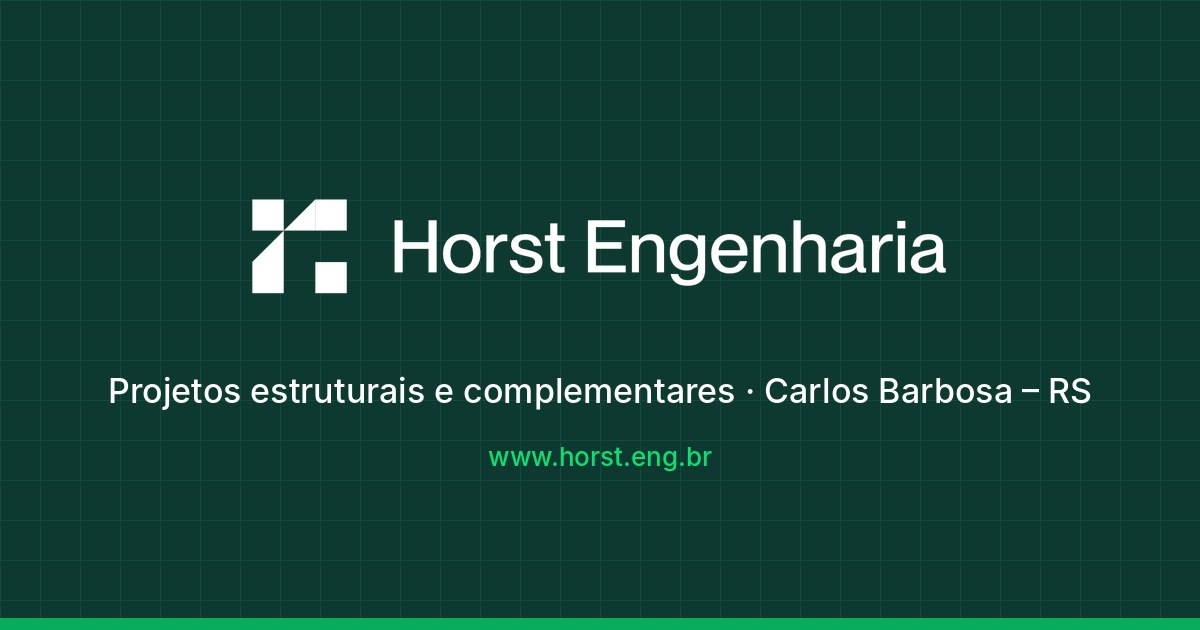
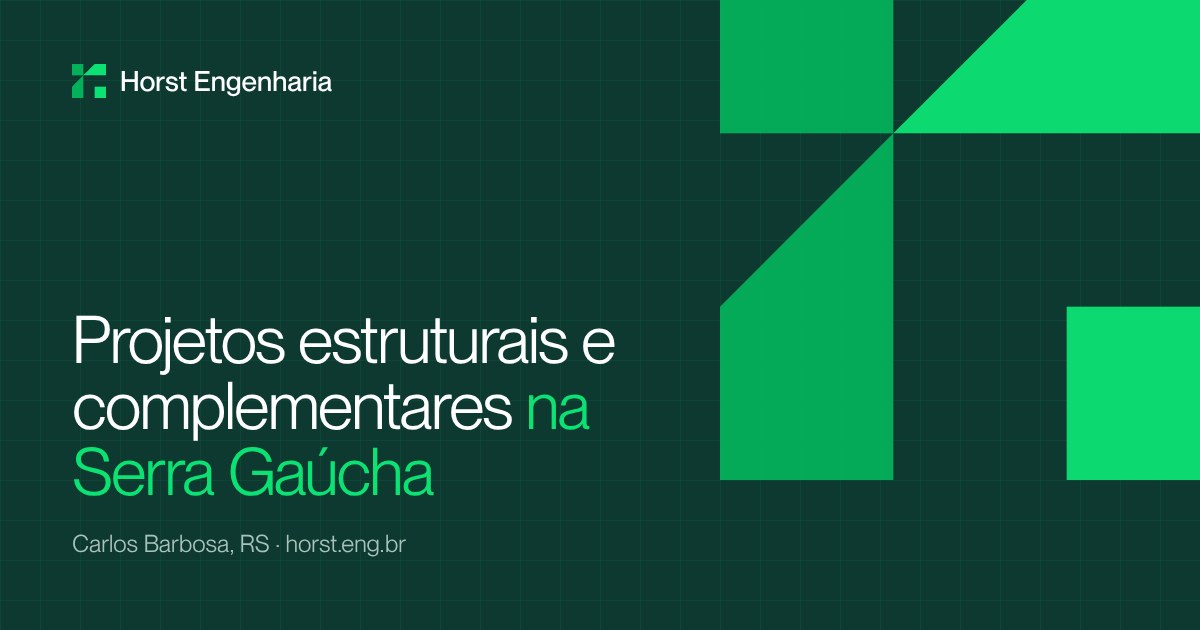
Serviços e números em HTML estático; nova imagem de compartilhamento
- textos de serviços e faixa de números direto no index.html (auditoria de SEO)
- conteudo.js fica só com as obras
- robots.txt deixa docs/identidade-visual/ fora da indexação
- og-image.jpg no visual novo (1200x630)

Claude-Session: https://claude.ai/code/session_01MBBi4y4kCC1wQFGCR4DkjJ

diff --git a/index.html b/index.html
@@ -24,7 +24,7 @@
   <meta property="og:image" content="https://www.horst.eng.br/docs/og-image.jpg">
   <meta property="og:image:width" content="1200">
   <meta property="og:image:height" content="630">
-  <meta property="og:image:alt" content="Logo da Horst Engenharia sobre fundo verde">
+  <meta property="og:image:alt" content="Símbolo da Horst Engenharia e o texto Projetos estruturais e complementares na Serra Gaúcha">
   <meta name="twitter:card" content="summary_large_image">
 
   <script type="application/ld+json">
@@ -168,13 +168,25 @@
 
     <div class="after">
       <div class="stats-band gutter"><div class="wrap">
-        <ul class="stats" role="list" data-numeros></ul>
+        <ul class="stats" role="list">
+          <li class="stat"><strong>2022</strong><span>Ano de fundação, em Carlos Barbosa</span></li>
+          <li class="stat"><strong>4</strong><span>Disciplinas de projeto no mesmo escritório</span></li>
+          <li class="stat"><strong>3D</strong><span>Todo projeto modelado antes da obra</span></li>
+          <li class="stat"><strong>ART</strong><span>Responsabilidade técnica registrada em cada projeto</span></li>
+        </ul>
       </div></div>
 
       <div class="gutter"><div class="wrap">
         <section class="sec" id="servicos">
           <div class="sec-head"><div><span class="eyebrow">Serviços</span><h2>O que projetamos</h2></div><p>Seis serviços, um mesmo modelo. Estrutura e instalações são desenhadas juntas, para chegar compatibilizadas na obra.</p></div>
-          <div class="svc-list" data-servicos></div>
+          <div class="svc-list">
+            <article class="svc"><svg class="ico" viewBox="0 0 44 44" fill="none" stroke="currentColor" stroke-width="1.6" aria-hidden="true"><path d="M8 38V10M22 38V10M36 38V10M4 10h36M4 24h36M4 38h36M8 24l14-14M22 24l14-14"/></svg><h3>Projeto estrutural</h3><p>Dimensionamos a estrutura de concreto armado de casas, sobrados, prédios residenciais e edificações comerciais. O projeto define pilares, vigas, lajes e escadas com o menor consumo de concreto e aço que a segurança permite. Entregamos plantas de forma, detalhamento de armaduras e quantitativos de material, o que ajuda o construtor a orçar a obra com precisão.</p></article>
+            <article class="svc"><svg class="ico" viewBox="0 0 44 44" fill="none" stroke="currentColor" stroke-width="1.6" aria-hidden="true"><path d="M4 18h36M19 6v20M25 6v20M12 26h20v6H12zM16 32v8M28 32v8"/><path d="M4 18l4 4M10 18l4 4M30 18l4 4M36 18l4 4" stroke-dasharray="2 2"/></svg><h3>Projeto de fundação</h3><p>A fundação é escolhida a partir do solo do terreno, não do hábito. Interpretamos o laudo de sondagem do terreno e definimos a solução mais adequada: sapatas, estacas ou radier. No relevo acidentado da Serra Gaúcha isso inclui terrenos em declive, cortes e muros de arrimo. Quando ainda não há sondagem, orientamos quantos furos fazer e onde.</p></article>
+            <article class="svc"><svg class="ico" viewBox="0 0 44 44" fill="none" stroke="currentColor" stroke-width="1.6" aria-hidden="true"><circle cx="22" cy="22" r="16"/><path d="M24 8l-8 16h8l-4 12 10-17h-8l4-11z"/></svg><h3>Projeto elétrico</h3><p>Planejamos a instalação elétrica a partir de como a edificação vai ser usada: chuveiros, ar-condicionado, cozinha, oficina ou máquinas. Com isso dimensionamos circuitos, cabos e proteções e deixamos o quadro com espaço para o que vier depois, como carregador de carro elétrico ou placas solares. O projeto inclui a entrada de energia aprovada na concessionária, iluminação, tomadas e a infraestrutura de internet, rede e câmeras. Como é desenhado sobre o mesmo modelo da estrutura, cada eletroduto já tem passagem prevista em lajes e vigas.</p></article>
+            <article class="svc"><svg class="ico" viewBox="0 0 44 44" fill="none" stroke="currentColor" stroke-width="1.6" aria-hidden="true"><path d="M4 14h20a6 6 0 0 1 6 6v6M4 20h18a2 2 0 0 1 2 2v4M27 30c0 3 1.5 6 3 6s3-3 3-6-3-6-3-6-3 3-3 6z"/></svg><h3>Projeto hidrossanitário</h3><p>Projetamos água fria e quente, esgoto e água da chuva como um sistema só. Reservatórios e tubulações são dimensionados para garantir pressão no último chuveiro e água quente sem espera, seja com aquecedor a gás, elétrico ou solar. No esgoto, ventilação e caixas de inspeção bem posicionadas evitam mau cheiro e facilitam a manutenção. Quando o cliente quiser, incluímos reaproveitamento da água da chuva para rega e descargas. Furos e rebaixos em vigas e lajes ficam definidos no projeto, não improvisados no canteiro.</p></article>
+            <article class="svc"><svg class="ico" viewBox="0 0 44 44" fill="none" stroke="currentColor" stroke-width="1.6" aria-hidden="true"><path d="M10 4h18l8 8v28H10zM28 4v8h8M15 20h16M15 26h16M15 32h9M27 34l3 3 6-7"/></svg><h3>Regularização de obras</h3><p>Regularizamos imóveis construídos sem projeto aprovado ou com ampliações não averbadas. Fazemos o levantamento do que existe, os desenhos técnicos, a ART e o encaminhamento na prefeitura de Carlos Barbosa ou da cidade do imóvel até o habite-se e a averbação no registro de imóveis. Um imóvel regular pode ser financiado, vendido e segurado sem pendências.</p></article>
+            <article class="svc"><svg class="ico" viewBox="0 0 44 44" fill="none" stroke="currentColor" stroke-width="1.6" aria-hidden="true"><path d="M8 26a14 14 0 0 1 28 0M5 26h34v4H5zM20 12h4v4M14 36h16"/></svg><h3>Assessoria técnica</h3><p>Atendemos quem precisa de uma avaliação de engenharia fora de um projeto completo: vistorias, análise de viabilidade de reforma ou ampliação e acompanhamento de obra. Também revisamos projetos de terceiros a pedido de construtoras e compradores.</p></article>
+          </div>
         </section>
       </div></div>
 

diff --git a/assets/js/conteudo.js b/assets/js/conteudo.js
@@ -1,9 +1,6 @@
-/* Conteúdo editável do site. Tudo o que aparece em Números, Serviços e Obras sai daqui.
+/* Obras do portfólio. Serviços, números e demais textos ficam direto no index.html (melhor para o Google).
 
-   NÚMEROS: só fatos confirmados. Quando houver contagens reais (área projetada, projetos entregues,
-   cidades atendidas), troque ou acrescente itens no mesmo formato:  { valor: '150', sufixo: '+', rotulo: 'Projetos entregues' }
-
-   OBRAS: começa vazia de propósito, para o site nunca mostrar obra inventada. Enquanto estiver vazia,
+   OBRAS começa vazia de propósito, para o site nunca mostrar obra inventada. Enquanto estiver vazia,
    a seção mostra os TIPOS de obra que o escritório projeta. Para publicar uma obra real, adicione um bloco:
      { nome: 'Residência ...', cidade: 'Carlos Barbosa, RS', area: '320 m²', ano: 2025,
        categoria: 'Residencial', desenho: 'casa', pavimentos: 2,
@@ -12,46 +9,6 @@
    desenho pode ser "casa", "predio", "comercial" ou "pavilhao". */
 
 window.HORST = {
-  NUMEROS: [
-    { valor: '2022', rotulo: 'Ano de fundação, em Carlos Barbosa' },
-    { valor: '4', rotulo: 'Disciplinas de projeto no mesmo escritório' },
-    { valor: '3D', rotulo: 'Todo projeto modelado antes da obra' },
-    { valor: 'ART', rotulo: 'Responsabilidade técnica registrada em cada projeto' }
-  ],
-
-  SERVICOS: [
-    {
-      icone: 'est',
-      nome: 'Projeto estrutural',
-      texto: 'Dimensionamos a estrutura de concreto armado de casas, sobrados, prédios residenciais e edificações comerciais. O projeto define pilares, vigas, lajes e escadas com o menor consumo de concreto e aço que a segurança permite. Entregamos plantas de forma, detalhamento de armaduras e quantitativos de material, o que ajuda o construtor a orçar a obra com precisão.'
-    },
-    {
-      icone: 'fun',
-      nome: 'Projeto de fundação',
-      texto: 'A fundação é escolhida a partir do solo do terreno, não do hábito. Interpretamos o laudo de sondagem do terreno e definimos a solução mais adequada: sapatas, estacas ou radier. No relevo acidentado da Serra Gaúcha isso inclui terrenos em declive, cortes e muros de arrimo. Quando ainda não há sondagem, orientamos quantos furos fazer e onde.'
-    },
-    {
-      icone: 'ele',
-      nome: 'Projeto elétrico',
-      texto: 'Planejamos a instalação elétrica a partir de como a edificação vai ser usada: chuveiros, ar-condicionado, cozinha, oficina ou máquinas. Com isso dimensionamos circuitos, cabos e proteções e deixamos o quadro com espaço para o que vier depois, como carregador de carro elétrico ou placas solares. O projeto inclui a entrada de energia aprovada na concessionária, iluminação, tomadas e a infraestrutura de internet, rede e câmeras. Como é desenhado sobre o mesmo modelo da estrutura, cada eletroduto já tem passagem prevista em lajes e vigas.'
-    },
-    {
-      icone: 'hid',
-      nome: 'Projeto hidrossanitário',
-      texto: 'Projetamos água fria e quente, esgoto e água da chuva como um sistema só. Reservatórios e tubulações são dimensionados para garantir pressão no último chuveiro e água quente sem espera, seja com aquecedor a gás, elétrico ou solar. No esgoto, ventilação e caixas de inspeção bem posicionadas evitam mau cheiro e facilitam a manutenção. Quando o cliente quiser, incluímos reaproveitamento da água da chuva para rega e descargas. Furos e rebaixos em vigas e lajes ficam definidos no projeto, não improvisados no canteiro.'
-    },
-    {
-      icone: 'reg',
-      nome: 'Regularização de obras',
-      texto: 'Regularizamos imóveis construídos sem projeto aprovado ou com ampliações não averbadas. Fazemos o levantamento do que existe, os desenhos técnicos, a ART e o encaminhamento na prefeitura de Carlos Barbosa ou da cidade do imóvel até o habite-se e a averbação no registro de imóveis. Um imóvel regular pode ser financiado, vendido e segurado sem pendências.'
-    },
-    {
-      icone: 'ass',
-      nome: 'Assessoria técnica',
-      texto: 'Atendemos quem precisa de uma avaliação de engenharia fora de um projeto completo: vistorias, análise de viabilidade de reforma ou ampliação e acompanhamento de obra. Também revisamos projetos de terceiros a pedido de construtoras e compradores.'
-    }
-  ],
-
   OBRAS: [],
 
   // Mostrados enquanto OBRAS estiver vazia.

diff --git a/assets/js/site.js b/assets/js/site.js
@@ -1,4 +1,4 @@
-/* Interações da página: menu, etapas da história, títulos, obras na horizontal e visualizador do modelo .glb. */
+/* Interações da página (serviços e números ficam direto no index.html, por SEO): menu, etapas da história, títulos, obras na horizontal e visualizador do modelo .glb. */
 
 (function () {
   'use strict';
@@ -9,25 +9,7 @@
   const clamp01 = v => Math.max(0, Math.min(1, v));
   const seg = (p, a, b) => clamp01((p - a) / (b - a));
   const fmt = (v, d) => v.toFixed(d).replace('.', ',');
-  const { NUMEROS = [], SERVICOS, OBRAS = [], TIPOS = [] } = window.HORST;
-
-  // ---------- Números ----------
-  const stats = document.querySelector('[data-numeros]');
-  if (NUMEROS.length) stats.innerHTML = NUMEROS.map(n =>
-    `<li class="stat"><strong>${n.valor}${n.sufixo ? `<sup>${n.sufixo}</sup>` : ''}</strong><span>${n.rotulo}</span></li>`).join('');
-  else stats.closest('.stats-band').remove();
-
-  // ---------- Serviços ----------
-  const ICONES = {
-    est: '<path d="M8 38V10M22 38V10M36 38V10M4 10h36M4 24h36M4 38h36M8 24l14-14M22 24l14-14"/>',
-    fun: '<path d="M4 18h36M19 6v20M25 6v20M12 26h20v6H12zM16 32v8M28 32v8"/><path d="M4 18l4 4M10 18l4 4M30 18l4 4M36 18l4 4" stroke-dasharray="2 2"/>',
-    ele: '<circle cx="22" cy="22" r="16"/><path d="M24 8l-8 16h8l-4 12 10-17h-8l4-11z"/>',
-    hid: '<path d="M4 14h20a6 6 0 0 1 6 6v6M4 20h18a2 2 0 0 1 2 2v4M27 30c0 3 1.5 6 3 6s3-3 3-6-3-6-3-6-3 3-3 6z"/>',
-    reg: '<path d="M10 4h18l8 8v28H10zM28 4v8h8M15 20h16M15 26h16M15 32h9M27 34l3 3 6-7"/>',
-    ass: '<path d="M8 26a14 14 0 0 1 28 0M5 26h34v4H5zM20 12h4v4M14 36h16"/>'
-  };
-  document.querySelector('[data-servicos]').innerHTML = SERVICOS.map(s =>
-    `<article class="svc"><svg class="ico" viewBox="0 0 44 44" fill="none" stroke="currentColor" stroke-width="1.6" aria-hidden="true">${ICONES[s.icone]}</svg><h3>${s.nome}</h3><p>${s.texto}</p></article>`).join('');
+  const { OBRAS = [], TIPOS = [] } = window.HORST;
 
   // ---------- Obras: fachada desenhada em traço ----------
   function fachada(o) {

diff --git a/README.md b/README.md
@@ -9,7 +9,7 @@ O site é um portfólio: a abertura conta, com uma obra em 3D que se constrói c
 ```
 index.html              página única (o <head> segue o SEO.md)
 assets/css/site.css     todo o visual: cores, tipografia, layout e responsivo
-assets/js/conteudo.js   textos editáveis: números, serviços e obras
+assets/js/conteudo.js   obras do portfólio (editável)
 assets/js/predio.js     a obra 3D da abertura (three.js)
 assets/js/site.js       menu, etapas, obras, animações e visualizador do .glb
 assets/fonts/           PP Neue Montreal (fonte da marca)
@@ -22,13 +22,8 @@ Não há etapa de build: é HTML, CSS e JavaScript puros. As bibliotecas (three.
 
 ## Como editar o conteúdo
 
-Quase tudo o que muda com o tempo fica em `assets/js/conteudo.js`, com instruções no topo do arquivo.
-
-- **Números:** só fatos confirmados. Quando houver contagens reais (área projetada, projetos entregues, cidades atendidas), troque os itens.
-- **Obras:** a lista começa vazia de propósito, para o site nunca mostrar uma obra que não existe. Enquanto estiver vazia, a seção mostra os tipos de obra que o escritório projeta. Ao adicionar a primeira obra real, a seção passa a mostrar o portfólio. Fotos vão em `assets/img/obras/`.
-- **Serviços:** nome e texto de cada serviço.
-
-Textos fixos (abertura, sobre, contato) estão direto no `index.html`. Ao mudar títulos, mantenha um único `h1` e siga o `SEO.md`.
+- **Textos, serviços e números** ficam direto no `index.html`, para o Google ler sem depender de JavaScript. Ao mudar títulos, mantenha um único `h1` e siga o `SEO.md`. A faixa de números mostra só fatos confirmados; quando houver contagens reais (área projetada, projetos entregues, cidades atendidas), troque os itens da lista `stats`.
+- **Obras** ficam em `assets/js/conteudo.js`, com instruções no topo. A lista começa vazia de propósito, para o site nunca mostrar uma obra que não existe. Enquanto estiver vazia, a seção mostra os tipos de obra que o escritório projeta; ao adicionar a primeira obra real, ela passa a mostrar o portfólio. Fotos vão em `assets/img/obras/`.
 
 ## Ver no computador
 
